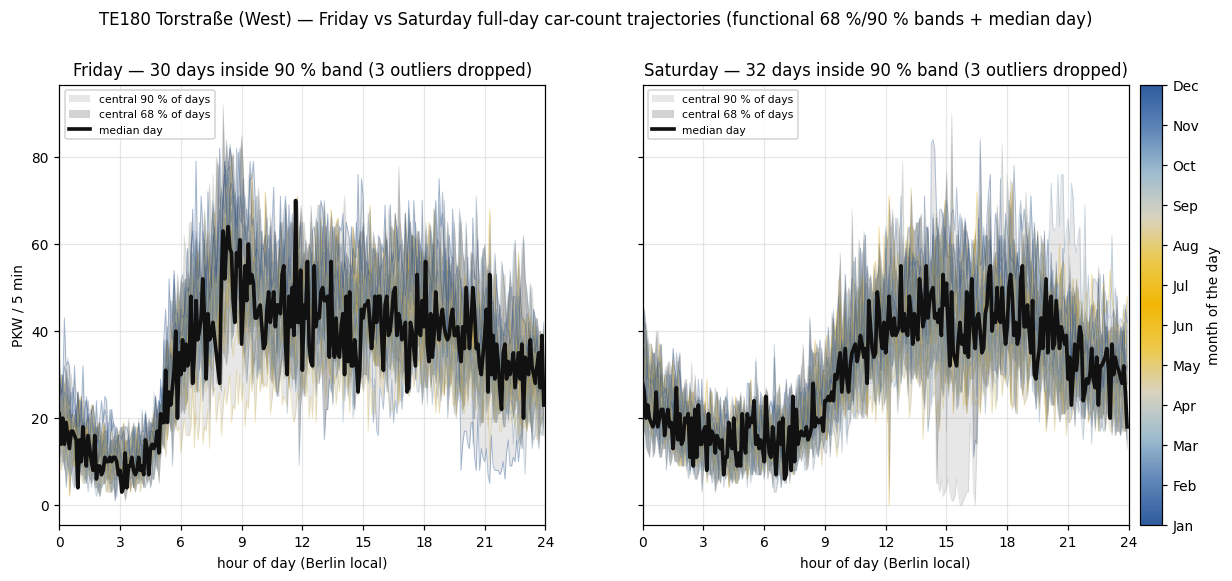
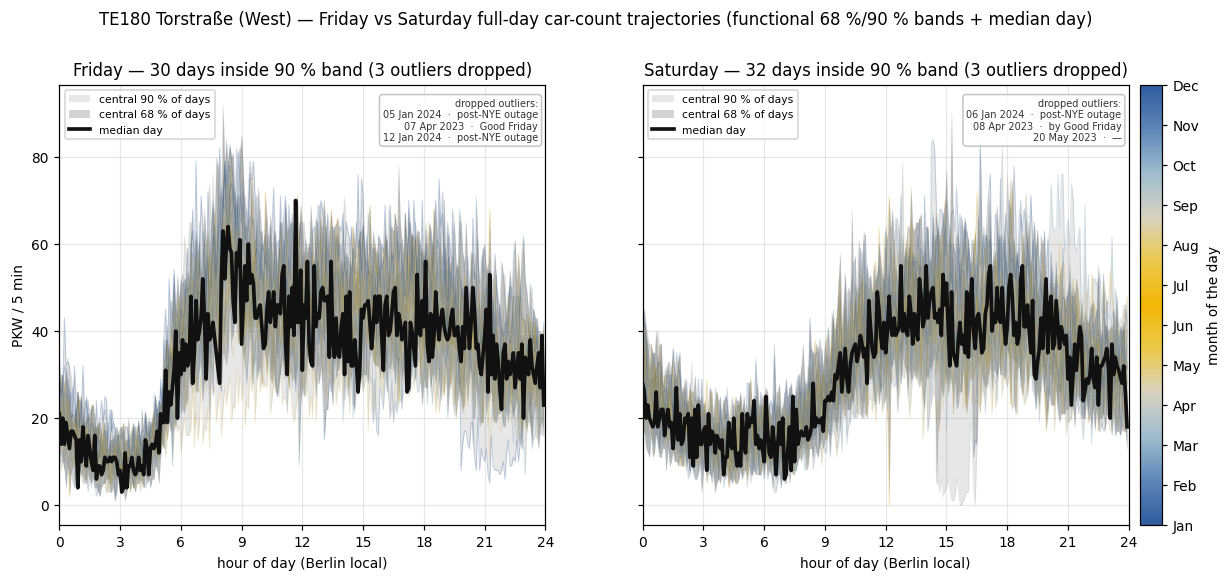
te180-deepdive: de-emphasise overpainting + annotate band outliers with holidays
- figs 14 & 15: lower line alpha and randomise (fixed-seed) draw order so no
  month/date range systematically overpaints the rest — fairer, less one-sided read
- fig 14: per-panel box tags each dropped 90%-band outlier with its holiday status
  (Good Friday + Easter Sat low; early-Jan highs are the post-NYE-outage return week)
- README: outlier/holiday paragraph; note Christmas & New Year fall inside the
  sensor outage so they can never appear as outliers

diff --git a/berlin-traffic-groundwork/te180-deepdive/analyze.py b/berlin-traffic-groundwork/te180-deepdive/analyze.py
@@ -212,6 +212,31 @@ def fig_day_pattern_by_dow(d):
 # deepest real day (again, a genuine trajectory, not a pointwise synthetic curve).
 SLOTS = 288  # 5-min slots in a (non-DST-change) day; Fri/Sat are always 24 h
 
+# Berlin public holidays within the data window (2023-02-22 → 2024-01-13). Used only
+# to explain the Fri/Sat band outliers; Christmas (25/26 Dec) & New Year (1 Jan) fall
+# *inside* the 10.9-day sensor outage, so they yield no trajectory at all.
+BERLIN_HOLIDAYS = {
+    "2023-03-08": "Women's Day", "2023-04-07": "Good Friday",
+    "2023-04-10": "Easter Mon", "2023-05-01": "Labour Day",
+    "2023-05-18": "Ascension", "2023-05-29": "Whit Mon",
+    "2023-10-03": "Unity Day", "2023-12-25": "Christmas",
+    "2023-12-26": "2nd Christmas", "2024-01-01": "New Year",
+}
+
+def _holiday_tag(d):
+    """Short reason-tag for an outlier day: the holiday itself, an adjacent holiday
+    (long weekend), the post-outage return week, or '—' for an ordinary outlier."""
+    d = pd.Timestamp(d); key = d.strftime("%Y-%m-%d")
+    if key in BERLIN_HOLIDAYS:
+        return BERLIN_HOLIDAYS[key]
+    for off in (-1, 1):
+        nb = (d + pd.Timedelta(days=off)).strftime("%Y-%m-%d")
+        if nb in BERLIN_HOLIDAYS:
+            return f"by {BERLIN_HOLIDAYS[nb]}"
+    if pd.Timestamp("2024-01-02") <= d <= pd.Timestamp("2024-01-13"):
+        return "post-NYE outage"
+    return "—"
+
 def _month_cmap():
     # cyclic blue(winter) → yellow(summer) → blue: keeps summer warm / winter cool
     # while the colour SCALE is calendar month (Jan…Dec), not an abstract season axis
@@ -250,6 +275,7 @@ def _mbd(M):
 def fig_weekend_day_bands(df):
     tod = np.arange(SLOTS) / 12.0                       # hour of day, 0..24
     cmap = _month_cmap(); mnorm = Normalize(1, 12)
+    rng = np.random.default_rng(42)                     # fixed: reproducible draw order
     fig, ax = plt.subplots(1, 2, figsize=(13, 5.2), sharey=True)
     counts = {}
     for a, (dow, name) in zip(ax, [(4, "Friday"), (5, "Saturday")]):
@@ -259,14 +285,18 @@ def fig_weekend_day_bands(df):
         k90 = max(2, int(np.ceil(0.90 * len(depth))))   # deepest 90 % = inside the 90 % band
         k68 = max(2, int(np.ceil(0.68 * len(depth))))
         in90 = order[:k90]
-        counts[name] = {"kept_90pct": int(k90), "dropped_outliers": int(len(depth) - k90)}
+        out = order[k90:]                               # the dropped depth-outliers
+        counts[name] = {"kept_90pct": int(k90),
+                        "outliers": {str(pd.Timestamp(dates[i]).date()): _holiday_tag(dates[i])
+                                     for i in out}}
         lo90, hi90 = M[in90].min(0), M[in90].max(0)
         lo68, hi68 = M[order[:k68]].min(0), M[order[:k68]].max(0)
         med = M[order[0]]                               # functional median = deepest real day
         months = pd.DatetimeIndex(dates).month.values
-        # only the trajectories INSIDE the 90 % band — the ~10 % outliers are dropped
-        for i in in90:
-            a.plot(tod, M[i], color=cmap(mnorm(months[i])), lw=0.6, alpha=0.42, zorder=1)
+        # only the trajectories INSIDE the 90 % band — the ~10 % outliers are dropped.
+        # draw in random z-order (not chronological) so no month sits on top of the rest
+        for i in rng.permutation(in90):
+            a.plot(tod, M[i], color=cmap(mnorm(months[i])), lw=0.6, alpha=0.30, zorder=1)
         # nested functional bands: 90 % wider & lighter, 68 % narrower & darker
         a.fill_between(tod, lo90, hi90, color="#3a3a3a", alpha=0.12, zorder=2, lw=0,
                        label="central 90 % of days")
@@ -275,9 +305,15 @@ def fig_weekend_day_bands(df):
         # bold near-black median line
         a.plot(tod, med, color="#111111", lw=2.4, zorder=5, label="median day")
         a.set_title(f"{name} — {k90} days inside 90 % band "
-                    f"({len(depth) - k90} outliers dropped)"); a.set_xlim(0, 24)
+                    f"({len(out)} outliers dropped)"); a.set_xlim(0, 24)
         a.set_xticks(range(0, 25, 3)); a.set_xlabel("hour of day (Berlin local)")
         a.legend(loc="upper left", fontsize=7, framealpha=0.85)
+        # annotate which days were dropped and whether they were holidays
+        lines = [f"{pd.Timestamp(dates[i]).strftime('%d %b %Y')}  ·  {_holiday_tag(dates[i])}"
+                 for i in out]
+        a.text(0.985, 0.97, "dropped outliers:\n" + "\n".join(lines),
+               transform=a.transAxes, ha="right", va="top", fontsize=6.4, color="#333",
+               bbox=dict(boxstyle="round,pad=0.35", fc="white", ec="#bbb", alpha=0.85))
     ax[0].set_ylabel("PKW / 5 min")
     sm = cm.ScalarMappable(norm=mnorm, cmap=cmap); sm.set_array([])
     cb = fig.colorbar(sm, ax=ax, fraction=0.025, pad=0.01)
@@ -296,12 +332,15 @@ def fig_weekend_day_spaghetti(df):
     Saturday full-day trajectory, all kept, coloured by month — the raw curve set."""
     tod = np.arange(SLOTS) / 12.0
     cmap = _month_cmap(); mnorm = Normalize(1, 12)
+    rng = np.random.default_rng(42)                     # fixed: reproducible draw order
     fig, ax = plt.subplots(1, 2, figsize=(13, 5.2), sharey=True)
     for a, (dow, name) in zip(ax, [(4, "Friday"), (5, "Saturday")]):
         dates, M = _day_matrix(df, dow)
         months = pd.DatetimeIndex(dates).month.values
-        for i in range(len(M)):                         # ALL trajectories, none dropped
-            a.plot(tod, M[i], color=cmap(mnorm(months[i])), lw=0.6, alpha=0.55, zorder=1)
+        # ALL trajectories, none dropped; random z-order + low alpha so no month/date
+        # range systematically overpaints the others (fairer, less one-sided read)
+        for i in rng.permutation(len(M)):
+            a.plot(tod, M[i], color=cmap(mnorm(months[i])), lw=0.6, alpha=0.38, zorder=1)
         a.set_title(f"{name} — all {len(M)} full days"); a.set_xlim(0, 24)
         a.set_xticks(range(0, 25, 3)); a.set_xlabel("hour of day (Berlin local)")
     ax[0].set_ylabel("PKW / 5 min")

diff --git a/berlin-traffic-groundwork/te180-deepdive/README.md b/berlin-traffic-groundwork/te180-deepdive/README.md
@@ -136,7 +136,8 @@ whole curve by how often it lies inside the band spanned by pairs of other days;
 / 90 % of days (darker-narrow vs lighter-wide grey), so the band literally
 **contains that share of entire days** rather than being a pointwise quantile. The
 bold near-black line is the **functional median = the single deepest real day** (a
-genuine trajectory, not a synthetic average).*
+genuine trajectory, not a synthetic average). Each panel's box lists the **dropped
+outlier days and whether they fell on a holiday** (see below).*
 
 Reading it: both nights share the weekday→weekend signature — **no sharp 08:00
 commute spike**, a slow build to a broad afternoon/evening plateau, and a fat late
@@ -145,6 +146,16 @@ and earlier-tapering. The 90 %/68 % gap is widest in the afternoon/evening (day-
 variance peaks when the street is busy) and pinches tight in the **04:00–05:00
 trough**, where every weekend looks alike. The month colour shows summer (yellow)
 days running a touch higher through the long evenings than winter (blue) ones.
+
+**The outliers are interpretable, and the holidays line up.** Of the six dropped days,
+the two genuinely *low* ones are the **Easter long weekend** — **Good Friday, 07 Apr
+2023** (a Berlin public holiday; the street runs Sunday-quiet) and the **Holy Saturday
+beside it, 08 Apr 2023**. The high-side outliers are all the **first Fri/Sat after the
+sensor woke from its 10.9-day Christmas/New-Year outage** (05/06/12 Jan 2024) —
+return-to-work weeks running hot against the winter norm. The remaining one, **20 May
+2023 (Sat)**, is an ordinary quiet Saturday, no holiday. Worth stating explicitly:
+**Christmas (25–26 Dec) and New Year (1 Jan) cannot appear as outliers at all** —
+both fall *inside* the sensor outage, so no trajectory exists for them.
 
 The same picture with the **bands and median stripped out and every day kept** — the
 raw trajectory set, coloured by month — is below. It makes the full day-to-day spread
